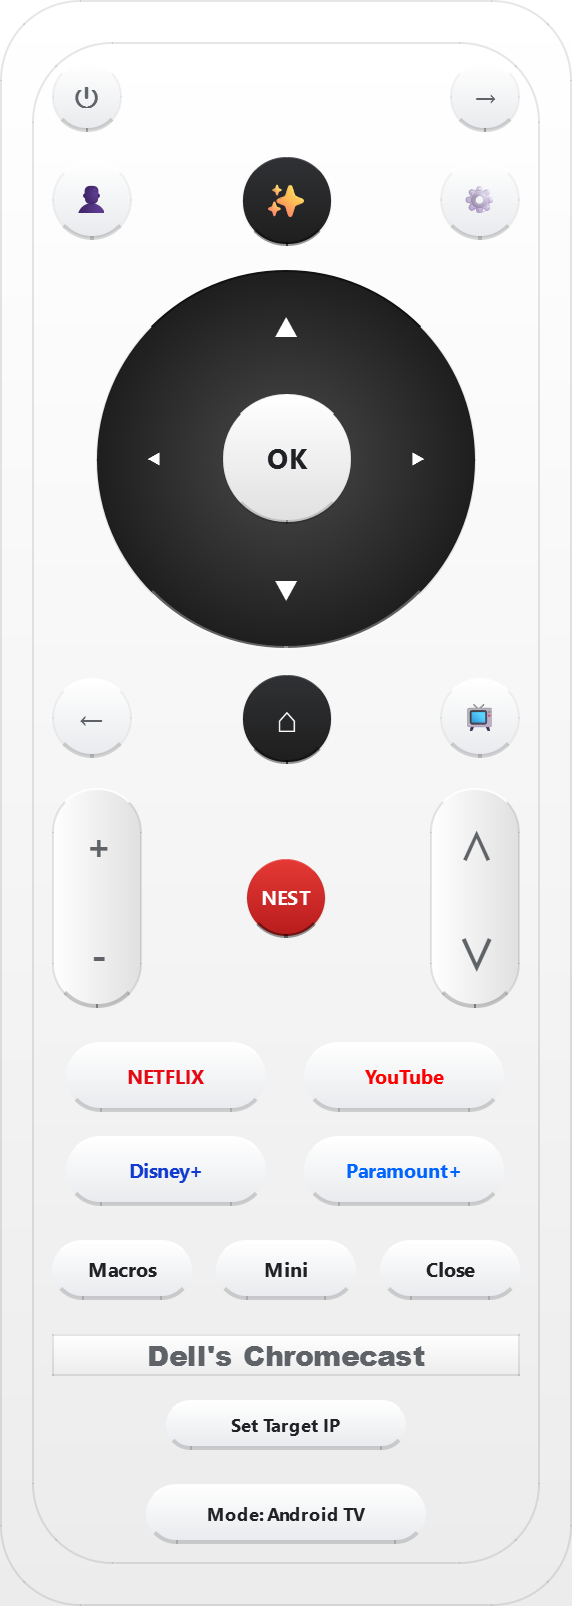
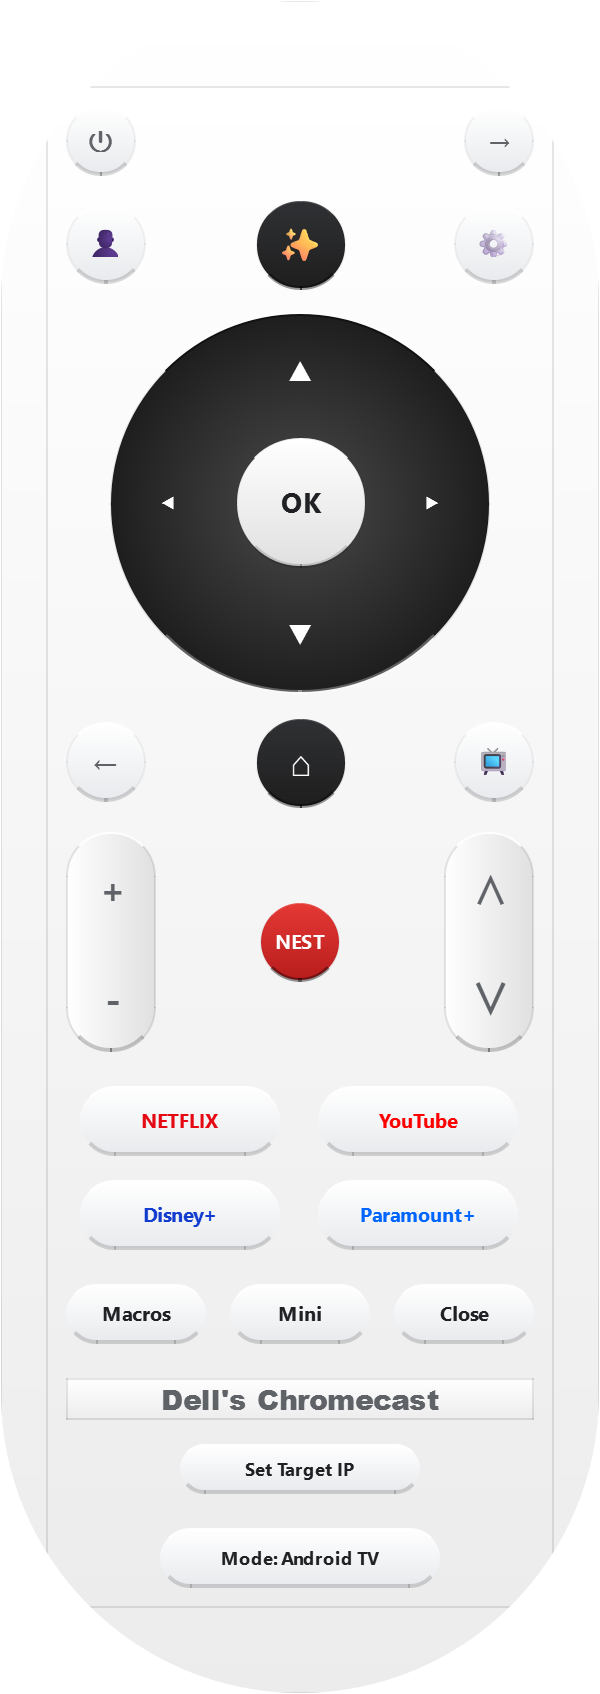
Make Chromecast remote screenshots a floating oval

diff --git a/style.css b/style.css
@@ -174,12 +174,14 @@ button, select { cursor: pointer; }
   height: min(520px, 78vh);
   width: auto;
   display: block;
+  border-radius: 999px;
   filter: drop-shadow(0 22px 28px rgba(0, 0, 0, 0.55));
 }
 .detail-art img {
   width: 150px;
   height: auto;
   display: block;
+  border-radius: 999px;
   filter: drop-shadow(0 16px 22px rgba(0, 0, 0, 0.45));
 }
 .card-remote {
@@ -189,6 +191,7 @@ button, select { cursor: pointer; }
 .card-remote img {
   height: 150px;
   width: auto;
+  border-radius: 999px;
   filter: drop-shadow(0 12px 16px rgba(0, 0, 0, 0.4));
 }
 
